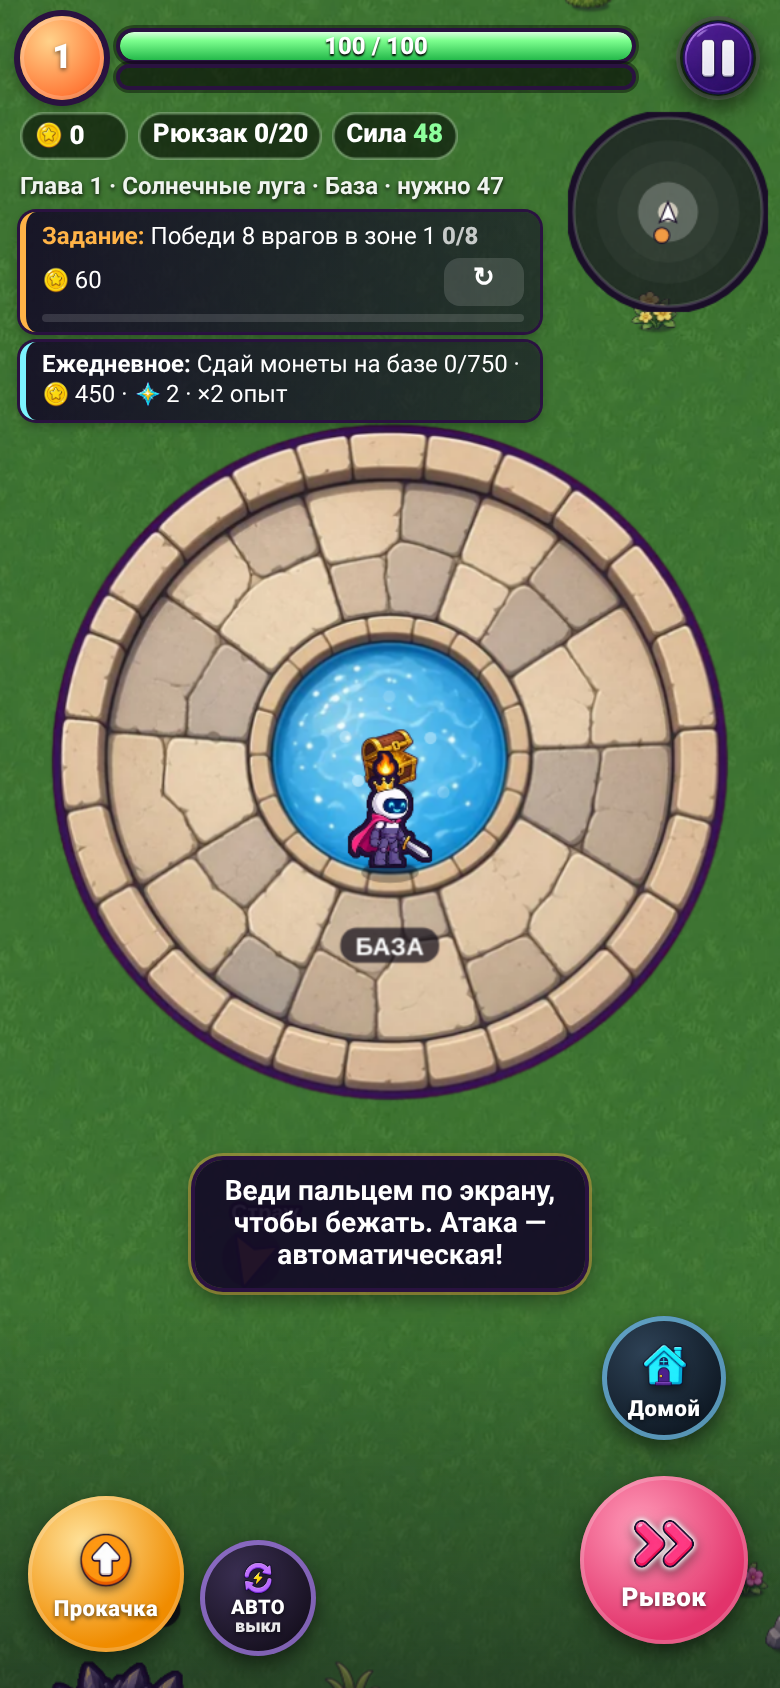
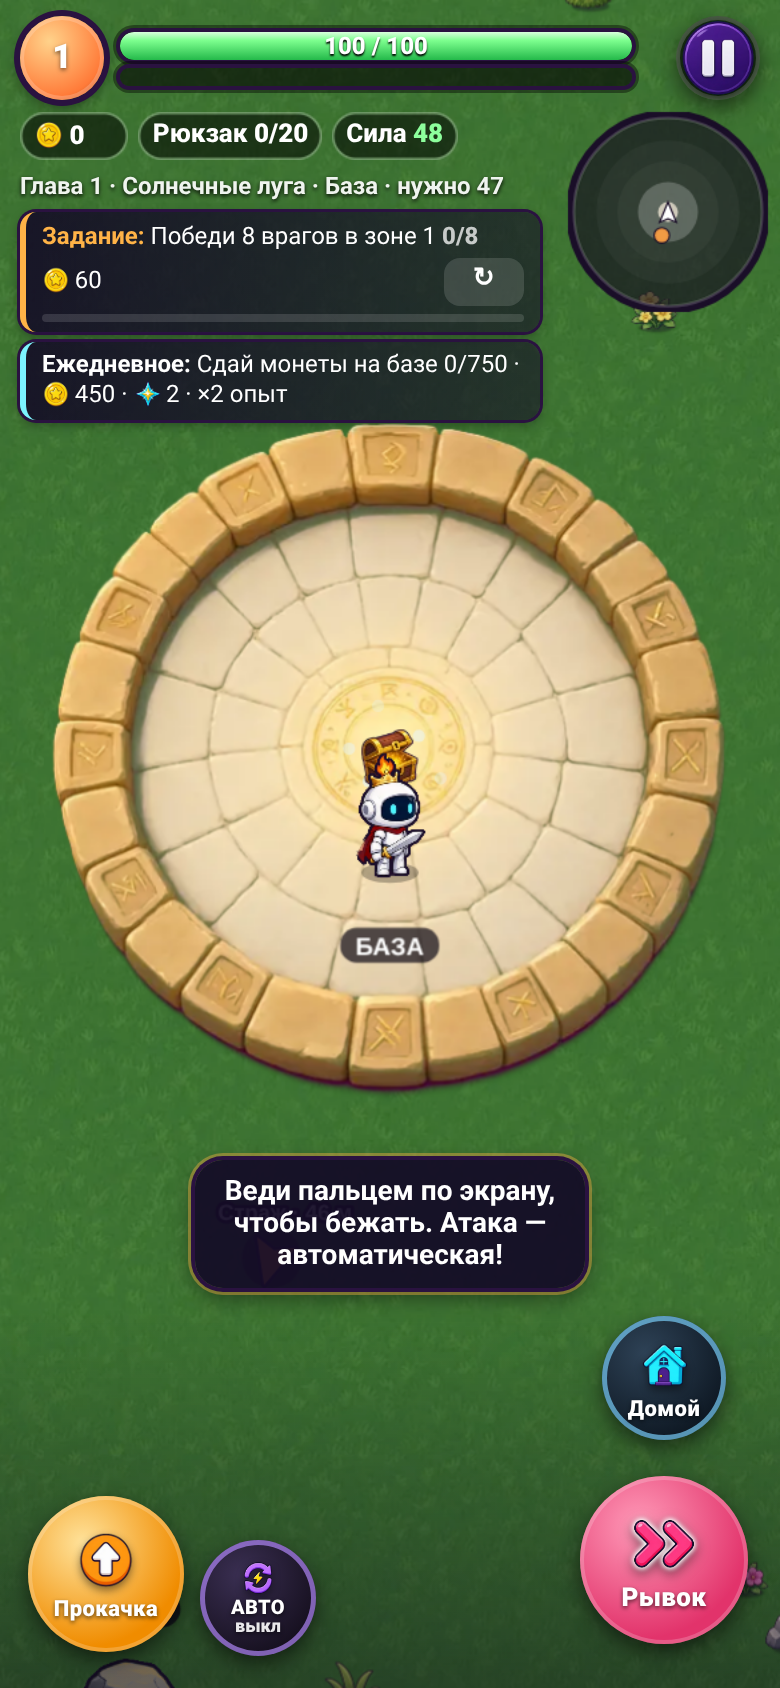
v23: art by qwen-image (art direction gpt-6-astra) + playtest bugfixes

Changed region(s): [[0.0615, 0.2464, 0.9538, 0.6777], [0.0615, 0.9858, 0.2462, 1.0]]

diff --git a/sw.js b/sw.js
@@ -1,8 +1,8 @@
 // Офлайн-кэш «Искры Героя»
 // index.html (и навигация) — network-first с таймаутом 3 с: обновления доходят сразу, а на плохой сети стартует кэш (свежая версия догрузится в кэш фоном).
 // Остальное (иконки, манифест) — cache-first.
-const CACHE='iskra-v22';
-const ASSETS=['./','./index.html','./manifest.webmanifest','./logo-1200x500.png','./bg-start-1170x2532.jpg','./icon-180.png','./icon-192.png','./icon-512.png','./icon-1024.png','./favicon.ico','./favicon-32.png','./favicon-48.png','./og-image-1200x630.jpg','./icons/upgrade.png','./icons/upgrade-256.png','./icons/dash.png','./icons/dash-256.png','./icons/home.png','./icons/home-256.png','./icons/back.png','./icons/back-256.png','./icons/auto.png','./icons/auto-256.png','./icons/coin.png','./icons/coin-256.png','./icons/spark.png','./icons/spark-256.png','./icons/pause.png','./icons/pause-256.png','./icons/weapon-sword.png','./icons/weapon-sword-256.png','./icons/weapon-blaster.png','./icons/weapon-blaster-256.png','./icons/weapon-blades.png','./icons/weapon-blades-256.png','./icons/weapon-lightning.png','./icons/weapon-lightning-256.png','./assets/altar.webp','./assets/warn-circle.webp','./assets/warn-strip.webp','./assets/base.webp','./assets/boss-ash.webp','./assets/boss-ice.webp','./assets/boss-meadow.webp','./assets/boss-shroom.webp','./assets/boss-void.webp','./assets/boss-waste.webp','./assets/chest.webp','./assets/coin-drop.webp','./assets/decor-ash.webp','./assets/decor-ice.webp','./assets/decor-meadow.webp','./assets/decor-shroom.webp','./assets/decor-void.webp','./assets/decor-waste.webp','./assets/enemies.webp','./assets/fx.webp','./assets/ground-ash.webp','./assets/ground-ice.webp','./assets/ground-meadow.webp','./assets/ground-shroom.webp','./assets/ground-void.webp','./assets/ground-waste.webp','./assets/guard.webp','./assets/hero.webp','./assets/projectiles.webp','./assets/ui-btn-blue.webp','./assets/ui-btn-dark.webp','./assets/ui-btn-orange.webp','./assets/ui-card.webp','./assets/ui-chip.webp','./assets/ui-panel.webp','./assets/icons/skill-aspd-256.webp','./assets/icons/skill-aspd.webp','./assets/icons/skill-atk-256.webp','./assets/icons/skill-atk.webp','./assets/icons/skill-bag-256.webp','./assets/icons/skill-bag.webp','./assets/icons/skill-crit-256.webp','./assets/icons/skill-crit.webp','./assets/icons/skill-hp-256.webp','./assets/icons/skill-hp.webp','./assets/icons/skill-mag-256.webp','./assets/icons/skill-mag.webp','./assets/icons/skill-regen-256.webp','./assets/icons/skill-regen.webp','./assets/icons/skill-spd-256.webp','./assets/icons/skill-spd.webp','./assets/icons/tal-greed-256.webp','./assets/icons/tal-greed.webp','./assets/icons/tal-might-256.webp','./assets/icons/tal-might.webp','./assets/icons/tal-portal-256.webp','./assets/icons/tal-portal.webp','./assets/icons/tal-vital-256.webp','./assets/icons/tal-vital.webp','./assets/icons/tal-wisdom-256.webp','./assets/icons/tal-wisdom.webp'];
+const CACHE='iskra-v23';
+const ASSETS=['./','./index.html','./manifest.webmanifest','./logo-1200x500.png','./bg-start-1170x2532.jpg','./icon-180.png','./icon-192.png','./icon-512.png','./icon-1024.png','./favicon.ico','./favicon-32.png','./favicon-48.png','./og-image-1200x630.jpg','./icons/upgrade.png','./icons/upgrade-256.png','./icons/dash.png','./icons/dash-256.png','./icons/home.png','./icons/home-256.png','./icons/back.png','./icons/back-256.png','./icons/auto.png','./icons/auto-256.png','./icons/coin.png','./icons/coin-256.png','./icons/spark.png','./icons/spark-256.png','./icons/pause.png','./icons/pause-256.png','./icons/weapon-sword.png','./icons/weapon-sword-256.png','./icons/weapon-blaster.png','./icons/weapon-blaster-256.png','./icons/weapon-blades.png','./icons/weapon-blades-256.png','./icons/weapon-lightning.png','./icons/weapon-lightning-256.png','./assets/altar.webp','./assets/warn-circle.webp','./assets/warn-strip.webp','./assets/base.webp','./assets/base-ash.webp','./assets/base-shroom.webp','./assets/base-void.webp','./assets/boss-ash.webp','./assets/boss-ice.webp','./assets/boss-meadow.webp','./assets/boss-shroom.webp','./assets/boss-void.webp','./assets/boss-waste.webp','./assets/chest.webp','./assets/coin-drop.webp','./assets/decor-ash.webp','./assets/decor-ice.webp','./assets/decor-meadow.webp','./assets/decor-shroom.webp','./assets/decor-void.webp','./assets/decor-waste.webp','./assets/enemies.webp','./assets/fx.webp','./assets/ground-ash.webp','./assets/ground-ice.webp','./assets/ground-meadow.webp','./assets/ground-shroom.webp','./assets/ground-void.webp','./assets/ground-waste.webp','./assets/guard.webp','./assets/hero.webp','./assets/projectiles.webp','./assets/ui-btn-blue.webp','./assets/ui-btn-dark.webp','./assets/ui-btn-orange.webp','./assets/ui-card.webp','./assets/ui-chip.webp','./assets/ui-panel.webp','./assets/icons/skill-aspd-256.webp','./assets/icons/skill-aspd.webp','./assets/icons/skill-atk-256.webp','./assets/icons/skill-atk.webp','./assets/icons/skill-bag-256.webp','./assets/icons/skill-bag.webp','./assets/icons/skill-crit-256.webp','./assets/icons/skill-crit.webp','./assets/icons/skill-hp-256.webp','./assets/icons/skill-hp.webp','./assets/icons/skill-mag-256.webp','./assets/icons/skill-mag.webp','./assets/icons/skill-regen-256.webp','./assets/icons/skill-regen.webp','./assets/icons/skill-spd-256.webp','./assets/icons/skill-spd.webp','./assets/icons/tal-greed-256.webp','./assets/icons/tal-greed.webp','./assets/icons/tal-might-256.webp','./assets/icons/tal-might.webp','./assets/icons/tal-portal-256.webp','./assets/icons/tal-portal.webp','./assets/icons/tal-vital-256.webp','./assets/icons/tal-vital.webp','./assets/icons/tal-wisdom-256.webp','./assets/icons/tal-wisdom.webp'];
 // каждый файл кэшируется отдельно: один 404 (например, нет favicon на хостинге) не ломает установку и офлайн
 // таймаут на каждый файл: один зависший запрос не блокирует установку; сначала критичное для старта, остальное — по 6 параллельно
 function addT(c,a,ms){const ac=new AbortController(),t=setTimeout(()=>ac.abort(),ms);return fetch(a,{signal:ac.signal,cache:'no-cache'}).then(r=>{clearTimeout(t);if(r.ok)return c.put(a,r)}).catch(()=>{clearTimeout(t)})}
